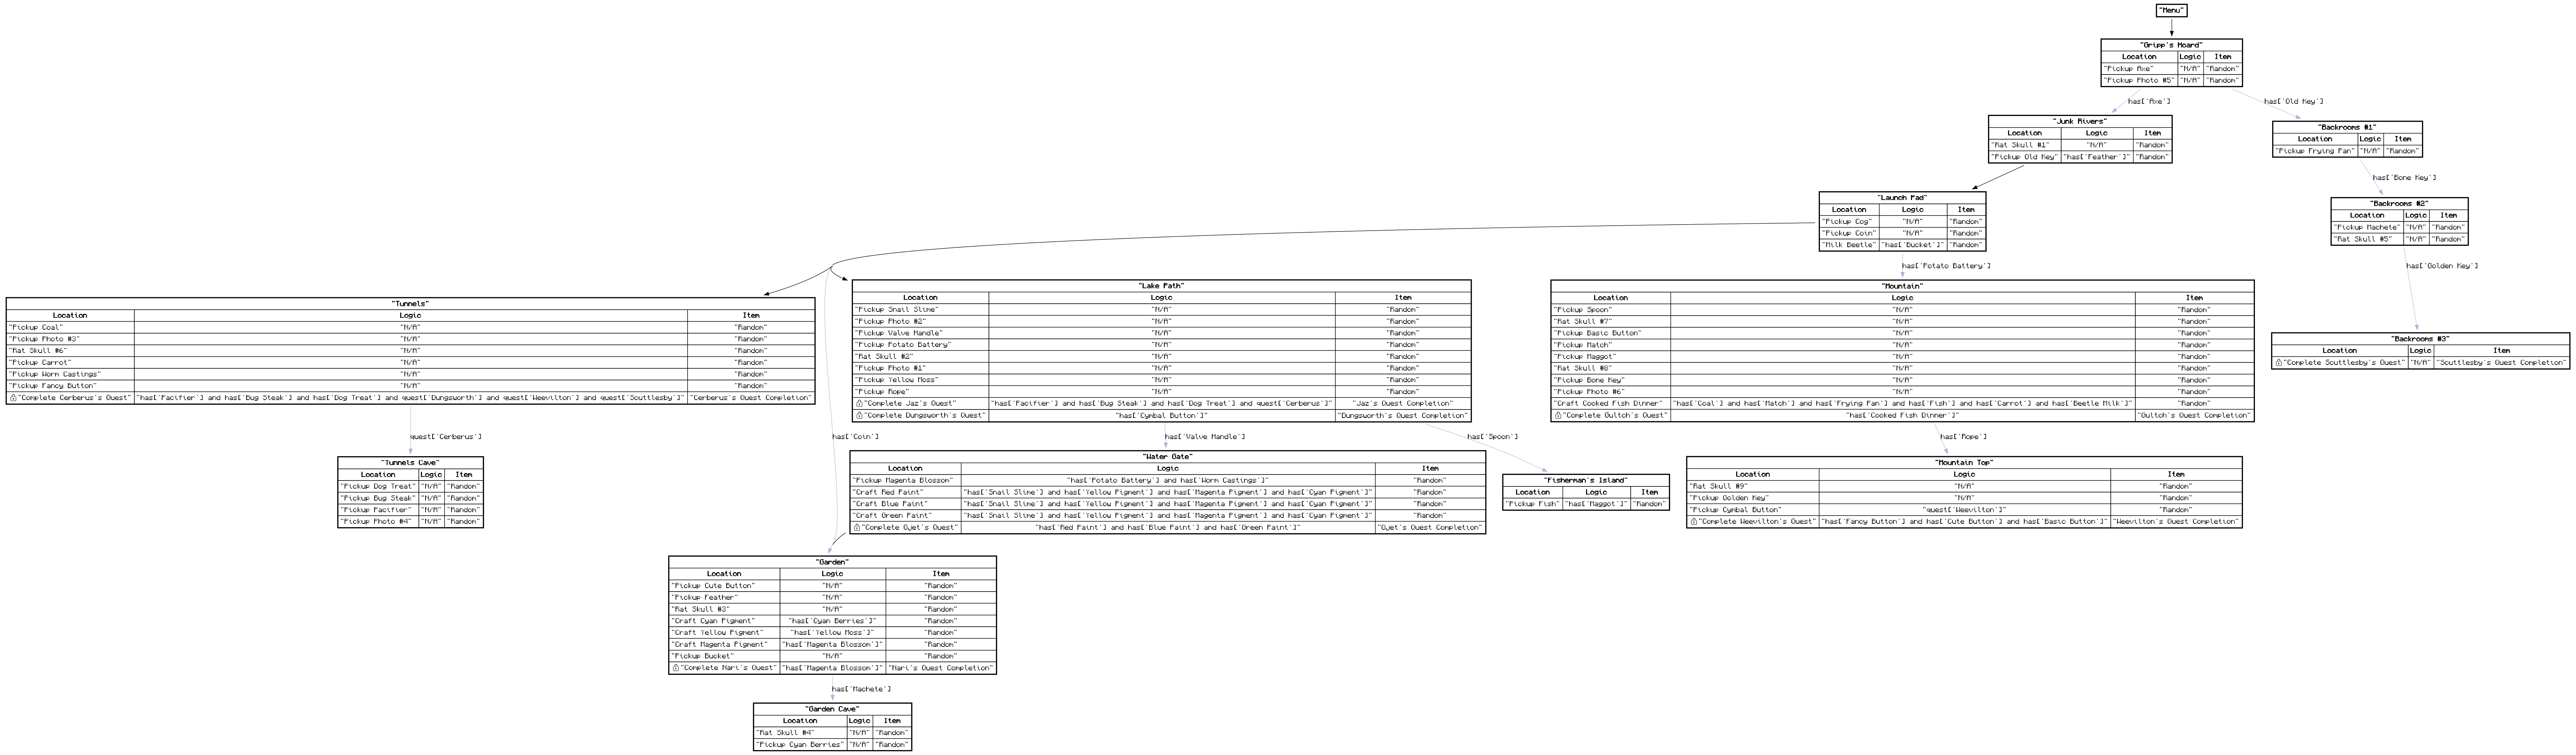
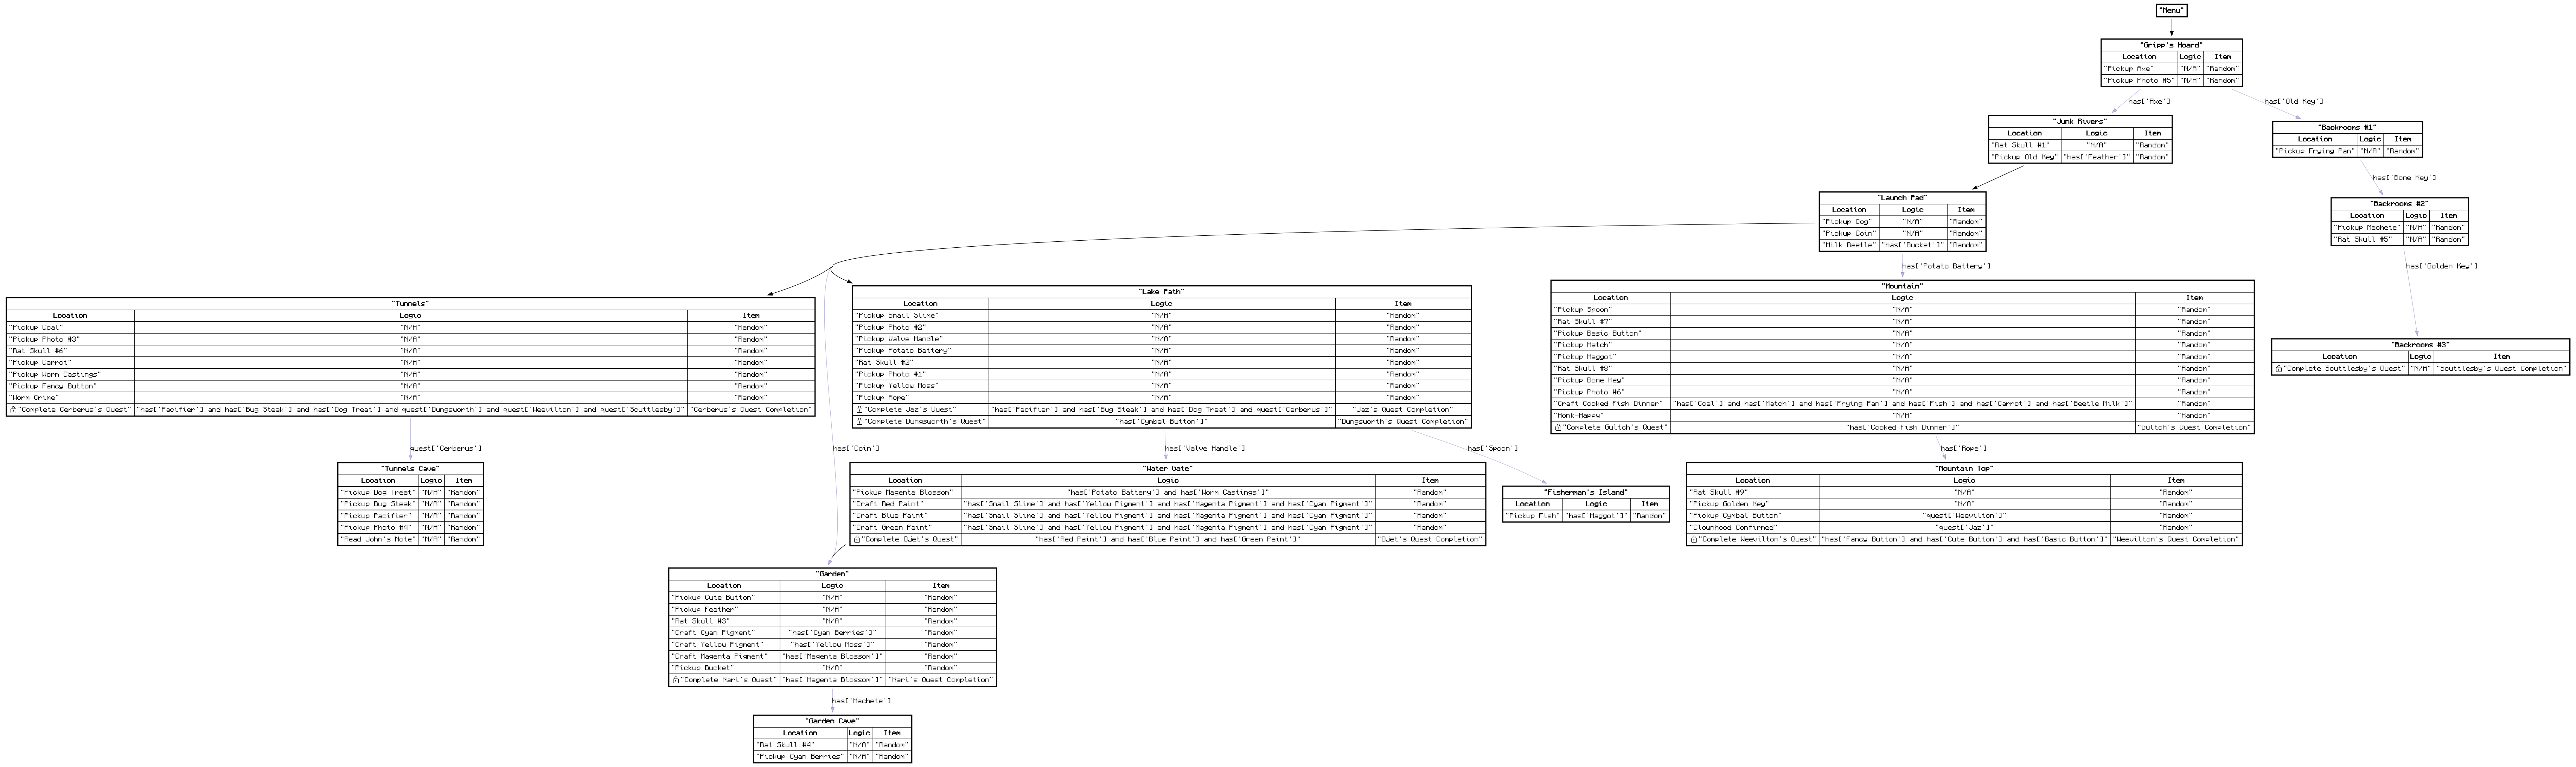
poco 0.1.2

diff --git a/ApWorldFactories/Games/Poco/Data.cs b/ApWorldFactories/Games/Poco/Data.cs
@@ -6,11 +6,7 @@ public readonly struct RegionData(DataArray param)
     [Mark] public readonly string ConnectsFrom = param.Get(false) is "" ? "Menu" : param;
     [Mark] public readonly string[] Requirements = param;
     [Mark] public readonly string[] QuestRequirements = param;
-
-    public string GenRule() => string.Join(
-        " and ",
-        Requirements.Select(item => $"has[\"{item}\"]").Concat(QuestRequirements.Select(quest => $"quest[\"{quest}\"]"))
-    );
+    public string GenRule() => PocoGenRule.GenRule(Requirements, QuestRequirements);
 }
 
 public readonly struct LocationData(DataArray param)
@@ -20,11 +16,7 @@ public readonly struct LocationData(DataArray param)
     [Mark] public readonly string[] Requirements = param;
     [Mark] public readonly string[] QuestRequirements = param;
     [Mark] public readonly string Id = param;
-
-    public string GenRule() => string.Join(
-        " and ",
-        Requirements.Select(item => $"has[\"{item}\"]").Concat(QuestRequirements.Select(quest => $"quest[\"{quest}\"]"))
-    );
+    public string GenRule() => PocoGenRule.GenRule(Requirements, QuestRequirements);
 }
 
 public readonly struct ItemData(DataArray param)
@@ -41,15 +33,27 @@ public readonly struct NpcQuestData(DataArray param)
 
     public string QuestName => $"Complete {NpcName}'s Quest";
     public string QuestItem => $"{NpcName}'s Quest Completion";
-    
-    public string GenRule() => string.Join(
-        " and ",
-        Requirements.Select(item => $"has[\"{item}\"]").Concat(QuestRequirements.Select(quest => $"quest[\"{quest}\"]"))
-    );
+    public string GenRule() => PocoGenRule.GenRule(Requirements, QuestRequirements);
 }
 
 public readonly struct ItemBlockerData(DataArray param)
 {
     [Mark] public readonly string Item = param;
     [Mark] public readonly string[] Blockers = param;
+}
+
+public readonly struct AchievementRowData(DataArray param)
+{
+    [Mark] public readonly string Achievement = param;
+    [Mark] public readonly string Region = param;
+    [Mark] public readonly string[] QuestRequirements = param;
+    public string GenRule() => PocoGenRule.GenRule([], QuestRequirements);
+}
+
+public static class PocoGenRule
+{
+    public static string GenRule(string[] itemRequirements, string[] questRequirements) => string.Join(
+        " and ",
+        itemRequirements.Select(item => $"has[\"{item}\"]").Concat(questRequirements.Select(quest => $"quest[\"{quest}\"]"))
+    );
 }

diff --git a/ApWorldFactories/Games/Poco/Poco.cs b/ApWorldFactories/Games/Poco/Poco.cs
@@ -1,4 +1,5 @@
-using ApWorldFactories.Graphviz;
+using ApWorldFactories.Games.Atlyss;
+using ApWorldFactories.Graphviz;
 using CreepyUtil.Archipelago.WorldFactory;
 using static ApWorldFactories.PathConstants;
 using static CreepyUtil.Archipelago.WorldFactory.PremadePython;
@@ -12,13 +13,14 @@ public class Poco : BuildData
     public override string GameName => "Poco";
     public override string ApWorldName => "poco";
     public override string GoogleSheetId => "1Hq3zKyTXmiiiCPAdSduEHKs5kzdlWuW7MVS0LdjU6U0";
-    public override string WorldVersion => "0.1.1";
+    public override string WorldVersion => "0.1.2";
 
     public RegionData[] RegionData = [];
     public LocationData[] LocationData = [];
     public ItemData[] ItemData = [];
     public NpcQuestData[] NpcQuestData = [];
     public ItemBlockerData[] ItemBlockerData = [];
+    public AchievementRowData[] AchievementRowData = [];
 
     public override void RunShenanigans()
     {
@@ -26,7 +28,8 @@ public class Poco : BuildData
                         .ReadTable(out LocationData).SkipColumn()
                         .ReadTable(out ItemData).SkipColumn()
                         .ReadTable(out NpcQuestData).SkipColumn()
-                        .ReadTable(out ItemBlockerData);
+                        .ReadTable(out ItemBlockerData).SkipColumn()
+                        .ReadTable(out AchievementRowData);
 
         WriteData("locations", LocationData.Select(data => $"{data.Location}:{data.Id}"));
         WriteData("items", ItemData.Select(data => data.Name));
@@ -35,7 +38,9 @@ public class Poco : BuildData
 
     public override void Locations(WorldFactory _, LocationFactory location_fact)
     {
-        location_fact.AddLocations("locations", LocationData.Select(data => (string[])[data.Location, data.Area]));
+        location_fact.AddLocations("locations", LocationData.Select(data => (string[])[data.Location, data.Area]))
+                     .AddLocations("achievements", AchievementRowData.Select(data => (string[])[data.Achievement, data.Region]))
+                     .AddLocations("note", [["Read John's Note", "Tunnels Cave"]]);
     }
 
     public override void Items(WorldFactory _, ItemFactory item_fact)
@@ -63,7 +68,8 @@ public class Poco : BuildData
             )
            .AddLogicRules(
                 NpcQuestData.ToDictionary(data => data.QuestName, data => data.GenRule())
-            );
+            )
+           .AddLogicRules(AchievementRowData.ToDictionary(data => data.Achievement, data => data.GenRule()));
     }
 
     public override void Regions(WorldFactory _, RegionFactory region_fact)
@@ -74,6 +80,8 @@ public class Poco : BuildData
                         (b, data) => b.AddConnectionCompiledRule(data.ConnectsFrom, data.Region, data.GenRule())
                     )
                    .AddLocationsFromList("locations")
+                   .AddLocationsFromList("achievements")
+                   .AddLocationsFromList("note")
                    .ForEachOf(
                         NpcQuestData,
                         (b, data) => b.AddEventLocation(